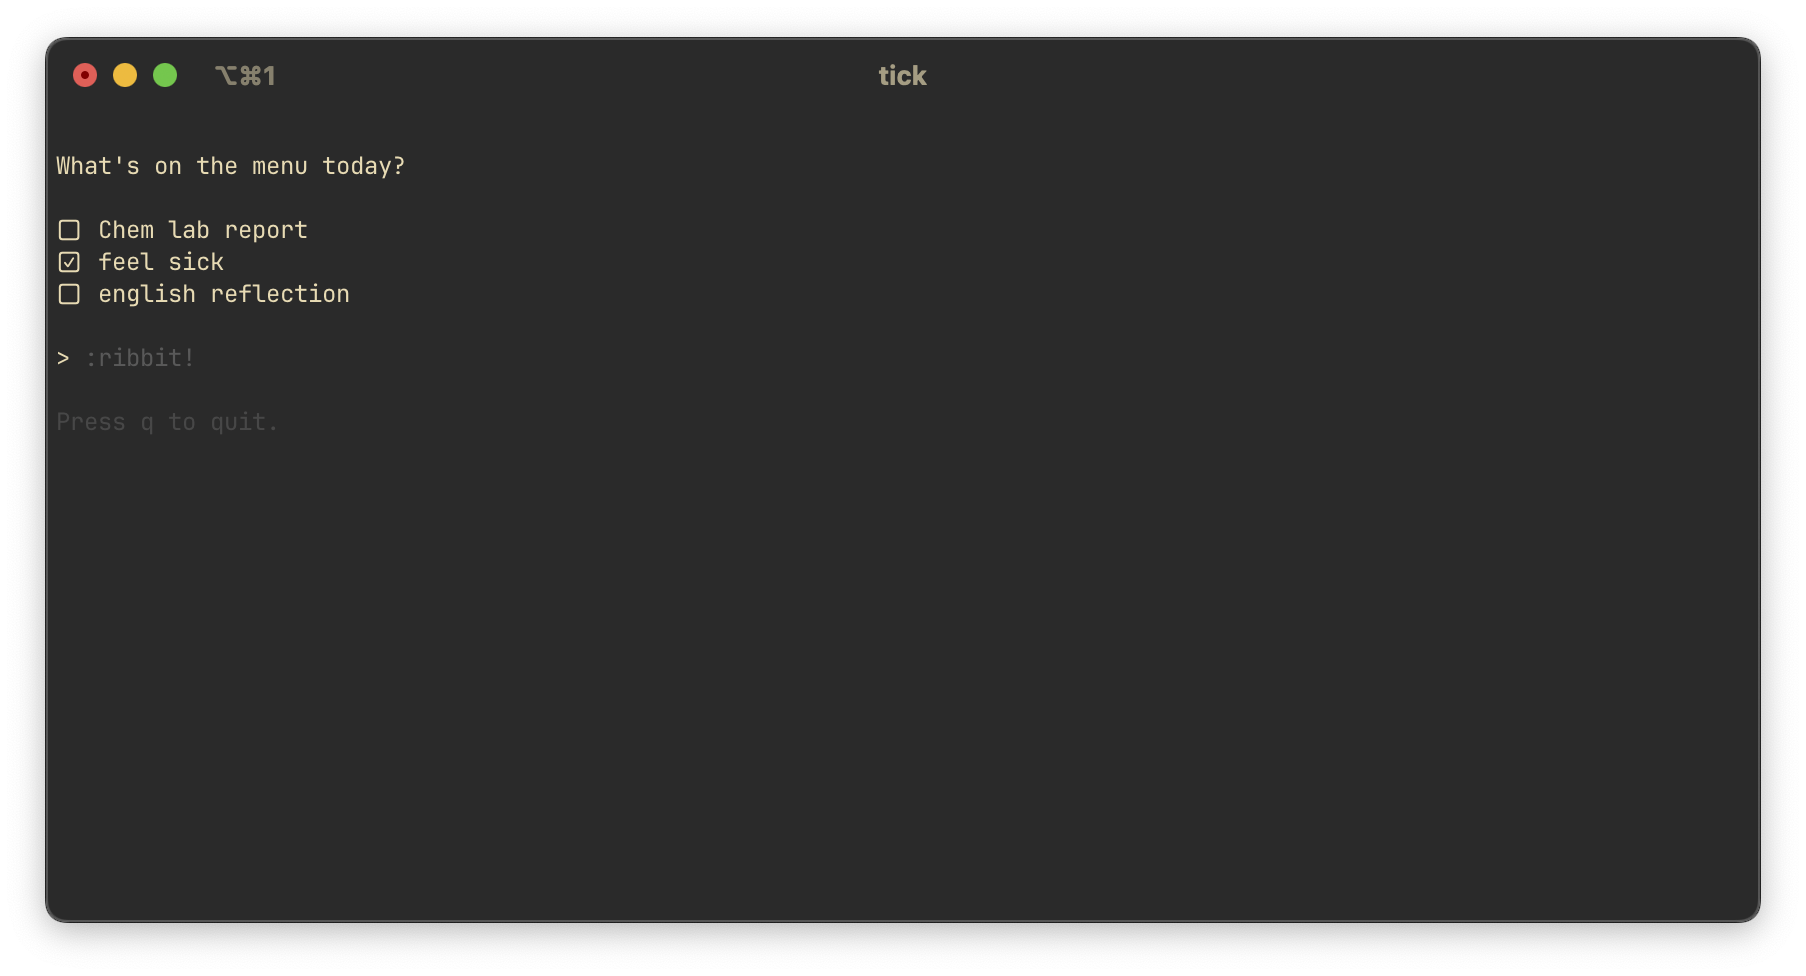
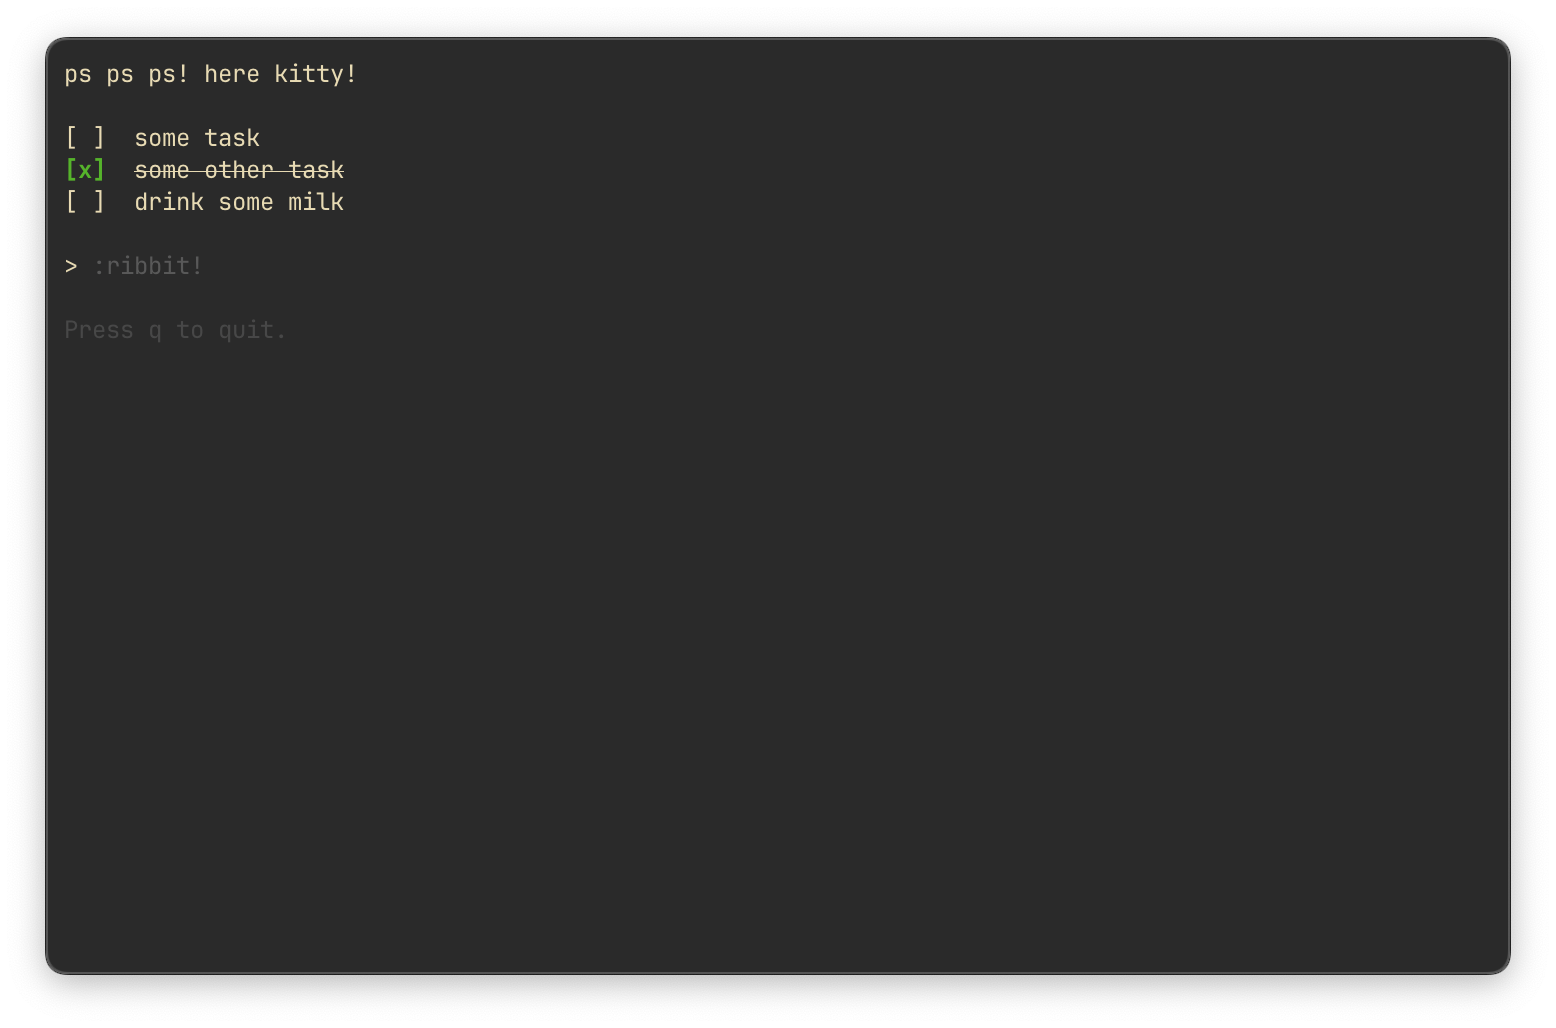
boog fixes and UI changes

Changed region(s): [[0.0, 0.0307, 0.9871, 0.9529]]

diff --git a/main.go b/main.go
@@ -18,7 +18,7 @@ var welcome string
 
 var textTheme = lipgloss.NewStyle().
 	Bold(true).
-	Foreground(lipgloss.Color("#7d56f4")).
+	Foreground(lipgloss.Color("#34b233")).
 	Align(lipgloss.Right)
 
 var quit = lipgloss.NewStyle().
@@ -71,9 +71,9 @@ func (m model) View() string {
 	for i, choice := range tasks {
 
 		// Is the cursor pointing at this choice?
-		cursor := "\U00100092" // unselected box
+		cursor := "[ ]" // unselected box
 		if m.cursor == i {
-			cursor = textTheme.Render("\U001000F2") //ticked box
+			cursor = textTheme.Render("[x]") //ticked box
 			choice = lipgloss.NewStyle().Align(lipgloss.Center).Strikethrough(true).Render(choice)
 		}
 
@@ -108,8 +108,10 @@ func (m model) Update(msg tea.Msg) (tea.Model, tea.Cmd) {
 
 		// These keys should exit the program.
 		case "ctrl+c", "q":
-			if !m.textInput.Focused() {
+			if !m.textInput.Focused() && msg.String() == "q" {
 				return m, tea.Quit
+			} else {
+				tea.Quit()
 			}
 		// The "up" and "k" keys move the cursor up
 		case "up":
@@ -132,6 +134,9 @@ func (m model) Update(msg tea.Msg) (tea.Model, tea.Cmd) {
 		case "enter":
 			if !m.textInput.Focused() {
 				SelectChoice(m)
+				if m.cursor > 0 {
+					m.cursor--
+				}
 			} else {
 				command(m.textInput.Value())
 				m.textInput.Reset()

diff --git a/README.md b/README.md
@@ -26,6 +26,8 @@ Run the executable
 ./tick
 ```
 
+The default save directory is ~/.tick
+
 ## Usage
 
 To add a task, use the :add command. To undo deleting a task, use the :undo command
